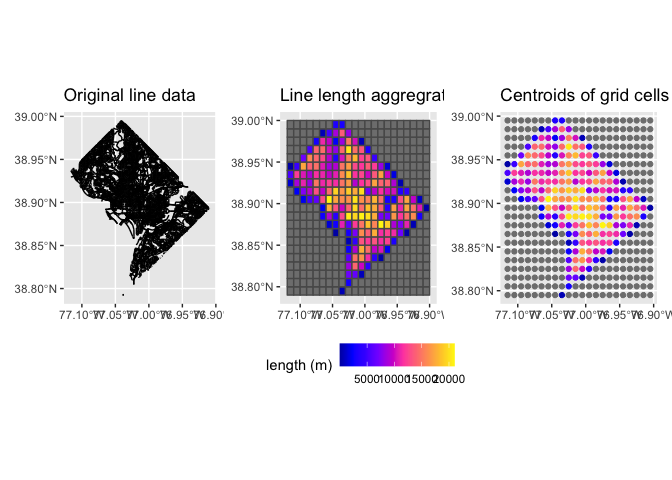
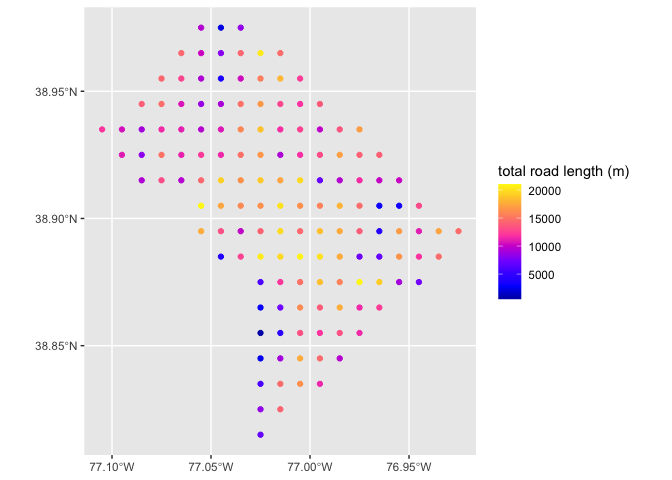
add .md for updated notebook

diff --git a/line_to_predict/line_label_generation.md b/line_to_predict/line_label_generation.md
@@ -14,6 +14,8 @@ roads in the DC area, downloaded from
 
 ``` r
 suppressPackageStartupMessages(library(sf))
+suppressPackageStartupMessages(library(raster))
+suppressPackageStartupMessages(library(terra))
 suppressPackageStartupMessages(library(dplyr))
 suppressPackageStartupMessages(library(mapview))
 suppressPackageStartupMessages(library(ggplot2))
@@ -29,6 +31,7 @@ Prepare directories and files
 ``` r
 input_dir <-  './' #input path to working directory
 label_shp_name <-  'TRAN_District_of_Columbia_State_Shape/Shape/Trans_RoadSegment.shp'
+boundary_name <- 'Washington_DC_Boundary/Washington_DC_Boundary.shp'
 target_crs <-  4326 # epsg:4326, the projection of the MOSAIKS grid
 
 label_shp <- st_read(paste0(input_dir, label_shp_name)) # read in shapefile using sf package
@@ -45,12 +48,23 @@ label_shp <- st_read(paste0(input_dir, label_shp_name)) # read in shapefile usin
 
 ``` r
 label_shp_reprojected <- st_transform(label_shp, crs = target_crs) # if needed, reproject shapefile to epsg:4326
+boundary <- st_read(paste0(input_dir, boundary_name))
 ```
+
+    ## Reading layer `Washington_DC_Boundary' from data source 
+    ##   `/Users/benshen/CEGA/api_testing/line_to_predict/Washington_DC_Boundary/Washington_DC_Boundary.shp' 
+    ##   using driver `ESRI Shapefile'
+    ## Simple feature collection with 1 feature and 15 fields
+    ## Geometry type: POLYGON
+    ## Dimension:     XY
+    ## Bounding box:  xmin: -77.1198 ymin: 38.79164 xmax: -76.90915 ymax: 38.99597
+    ## Geodetic CRS:  WGS 84
 
 Inspect shapefile and data
 
 ``` r
 ggplot() +
+  geom_sf(data = boundary) +
   geom_sf(data = label_shp_reprojected[,"permanent_"]) +
   labs(title = "DC Permanent Roads")
 ```
@@ -103,6 +117,7 @@ Plot grid over vector shapefile
 ``` r
 # Plot grid over lines
 ggplot() +
+  geom_sf(data = boundary) +
   geom_sf(data = label_shp_reprojected[,"permanent_"], lwd = 0.09) +
   geom_sf(data = grid_cells, fill = 'transparent', lwd = 0.5) +
   coord_sf(datum = 4326)  +
@@ -138,28 +153,8 @@ grid_length <- group_by(join, id) %>% #  sum length of all line segments in each
 
 #grid_length1 <- filter(grid_length, !is.na(length)) # filter out cells without line segments
 
-mutate(grid_length, length = ifelse(is.na(length), 0, length)) # or set length to 0 for cells without lines
+#mutate(grid_length, length = ifelse(is.na(length), 0, length)) # or set length to 0 for cells without lines
 ```
-
-    ## Simple feature collection with 462 features and 2 fields
-    ## Geometry type: POLYGON
-    ## Dimension:     XY
-    ## Bounding box:  xmin: -77.12 ymin: 38.79 xmax: -76.9 ymax: 39
-    ## Geodetic CRS:  WGS 84
-    ## # A tibble: 462 × 3
-    ##       id length                                                                x
-    ##  * <int>  <dbl>                                                    <POLYGON [°]>
-    ##  1     1     0  ((-77.12 38.79, -77.11 38.79, -77.11 38.8, -77.12 38.8, -77.12 …
-    ##  2     2     0  ((-77.11 38.79, -77.1 38.79, -77.1 38.8, -77.11 38.8, -77.11 38…
-    ##  3     3     0  ((-77.1 38.79, -77.09 38.79, -77.09 38.8, -77.1 38.8, -77.1 38.…
-    ##  4     4     0  ((-77.09 38.79, -77.08 38.79, -77.08 38.8, -77.09 38.8, -77.09 …
-    ##  5     5     0  ((-77.08 38.79, -77.07 38.79, -77.07 38.8, -77.08 38.8, -77.08 …
-    ##  6     6     0  ((-77.07 38.79, -77.06 38.79, -77.06 38.8, -77.07 38.8, -77.07 …
-    ##  7     7     0  ((-77.06 38.79, -77.05 38.79, -77.05 38.8, -77.06 38.8, -77.06 …
-    ##  8     8     0  ((-77.05 38.79, -77.04 38.79, -77.04 38.8, -77.05 38.8, -77.05 …
-    ##  9     9   446. ((-77.04 38.79, -77.03 38.79, -77.03 38.8, -77.04 38.8, -77.04 …
-    ## 10    10     0  ((-77.03 38.79, -77.02 38.79, -77.02 38.8, -77.03 38.8, -77.03 …
-    ## # … with 452 more rows
 
 ``` r
 head(grid_length)
@@ -185,6 +180,7 @@ grid_length <- drop_units(grid_length) # drop units feature for easy manipulatio
 
 ggplot() +
   geom_sf(data = grid_length, aes(fill = length)) +
+  geom_sf(data = boundary) +
   scale_fill_gradientn(colors = sf.colors()) +
   labs(fill = "total road length (m)")
 ```
@@ -192,27 +188,39 @@ ggplot() +
 ![](line_label_generation_files/figure-gfm/unnamed-chunk-7-1.png)<!-- -->
 
 ``` r
-centroids <- st_centroid(grid_length) # get points at centroid of each grid cell
+#subset the grid by only those cells that fall completely within the boundary to avoid edge effects
+overlay <- st_join(grid_length, boundary, join = st_covered_by, left = FALSE)
+
+ggplot() +
+  geom_sf(data = boundary) +
+  geom_sf(data = overlay, aes(fill = length)) +
+  scale_fill_gradientn(colors = sf.colors())
 ```
 
-    ## Warning in st_centroid.sf(grid_length): st_centroid assumes attributes are
-    ## constant over geometries of x
+![](line_label_generation_files/figure-gfm/unnamed-chunk-8-1.png)<!-- -->
+
+``` r
+centroids <- st_centroid(overlay) # get points at centroid of each grid cell
+```
+
+    ## Warning in st_centroid.sf(overlay): st_centroid assumes attributes are constant
+    ## over geometries of x
 
 ``` r
 # Visualize
 ggplot() +
-  geom_sf(data = grid_length, aes(fill = length)) +
+  geom_sf(data = overlay, aes(fill = length)) +
   scale_fill_gradientn(colors = sf.colors()) + 
   geom_sf(data = centroids) +
   labs(fill = "total road length (m)")
 ```
 
-![](line_label_generation_files/figure-gfm/unnamed-chunk-8-1.png)<!-- -->
+![](line_label_generation_files/figure-gfm/unnamed-chunk-9-1.png)<!-- -->
 
 Extract grid cell values to centroids
 
 ``` r
-grid_points <- st_join(centroids, grid_length, join = st_within) # spatial join
+grid_points <- st_join(centroids, overlay, join = st_within) # spatial join
 
 # Visualize
 ggplot() +
@@ -221,34 +229,39 @@ ggplot() +
   labs(color = "total road length (m)")
 ```
 
-![](line_label_generation_files/figure-gfm/unnamed-chunk-9-1.png)<!-- -->
+![](line_label_generation_files/figure-gfm/unnamed-chunk-10-1.png)<!-- -->
 
 ``` r
 head(grid_points)
 ```
 
-    ## Simple feature collection with 6 features and 4 fields
+    ## Simple feature collection with 6 features and 34 fields
     ## Geometry type: POINT
     ## Dimension:     XY
-    ## Bounding box:  xmin: -77.115 ymin: 38.795 xmax: -77.065 ymax: 38.795
+    ## Bounding box:  xmin: -77.025 ymin: 38.815 xmax: -77.005 ymax: 38.835
     ## Geodetic CRS:  WGS 84
-    ## # A tibble: 6 × 5
-    ##    id.x length.x                x  id.y length.y
-    ##   <int>    <dbl>      <POINT [°]> <int>    <dbl>
-    ## 1     1       NA (-77.115 38.795)     1       NA
-    ## 2     2       NA (-77.105 38.795)     2       NA
-    ## 3     3       NA (-77.095 38.795)     3       NA
-    ## 4     4       NA (-77.085 38.795)     4       NA
-    ## 5     5       NA (-77.075 38.795)     5       NA
-    ## 6     6       NA (-77.065 38.795)     6       NA
+    ## # A tibble: 6 × 35
+    ##    id.x length.x                x OBJECTID.x CITY_NAME.x STATE_CITY.x CAPITAL.x
+    ##   <int>    <dbl>      <POINT [°]>      <int> <chr>              <int> <chr>    
+    ## 1    54    6819. (-77.025 38.815)          1 Washington       1150000 Y        
+    ## 2    76    8346. (-77.025 38.825)          1 Washington       1150000 Y        
+    ## 3    77   14246. (-77.015 38.825)          1 Washington       1150000 Y        
+    ## 4    98    5828. (-77.025 38.835)          1 Washington       1150000 Y        
+    ## 5    99   14691. (-77.015 38.835)          1 Washington       1150000 Y        
+    ## 6   100   16376. (-77.005 38.835)          1 Washington       1150000 Y        
+    ## # … with 28 more variables: WEB_URL.x <chr>, AREAKM.x <dbl>, AREAMILES.x <dbl>,
+    ## #   GIS_ID.x <chr>, GLOBALID.x <chr>, CREATOR.x <chr>, CREATED.x <chr>,
+    ## #   EDITOR.x <chr>, EDITED.x <chr>, SHAPEAREA.x <int>, SHAPELEN.x <int>,
+    ## #   id.y <int>, length.y <dbl>, OBJECTID.y <int>, CITY_NAME.y <chr>,
+    ## #   STATE_CITY.y <int>, CAPITAL.y <chr>, WEB_URL.y <chr>, AREAKM.y <dbl>,
+    ## #   AREAMILES.y <dbl>, GIS_ID.y <chr>, GLOBALID.y <chr>, CREATOR.y <chr>,
+    ## #   CREATED.y <chr>, EDITOR.y <chr>, EDITED.y <chr>, SHAPEAREA.y <int>, …
+    ## # ℹ Use `colnames()` to see all variable names
 
 ############ 
 
 Plot check
 
-<img src="line_label_generation_files/figure-gfm/unnamed-chunk-10-1.png" width="100%" height="100%" />
+<img src="line_label_generation_files/figure-gfm/unnamed-chunk-11-1.png" width="100%" height="100%" />
 
 ## 4. Output the grid to CSV to obtain features from File Query
-
-    ## Writing layer `dc_roads' to data source `./dc_roads.csv' using driver `CSV'
-    ## Writing 462 features with 3 fields and geometry type Point.
